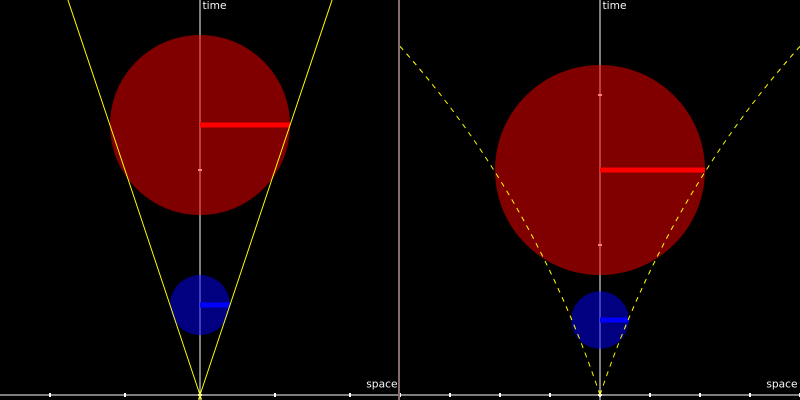
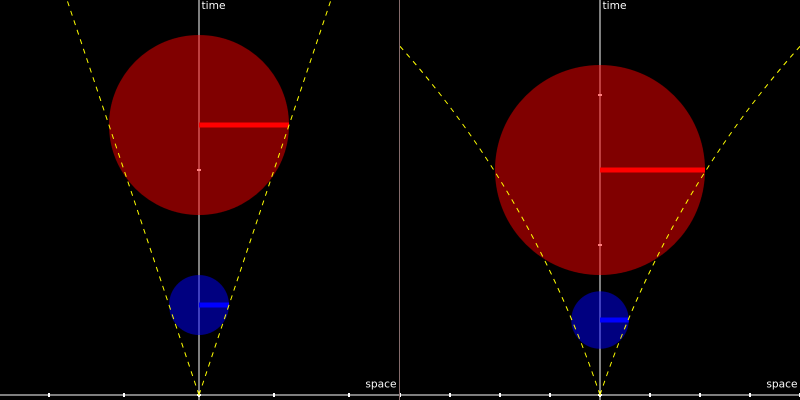
luminosity

diff --git a/other/luminosity.htm b/other/luminosity.htm
@@ -9,20 +9,20 @@
 var canvas = lightcone1
 var ctx = canvas.getContext("2d")
 
-var ly0 = 1
+var ly0 = 150
 var ly = ly0
 var yzoom =3
 
 var di
 
-//var circle = {color:"blue", t: 0.4}
-//var circle2 = {color:"red", t: 1.2}
-var circle = {color:"blue", t: 50, scale: 1.15}
-var circle2 = {color:"red", t: 150, scale: 1.4}
+var circle = {color:"blue", t: 0.4, scale: 1}
+var circle2 = {color:"red", t: 1.2, scale: 1}
+//var circle = {color:"blue", t: 50, scale: 1.15}
+//var circle2 = {color:"red", t: 150, scale: 1.4}
 
 var ticks = []
 for (di = -6; di <= 6; di++) {
-    //ticks.push(di)
+    ticks.push(di)
 }
 
 for (di = -1800; di <= 1800; di+=100) {
